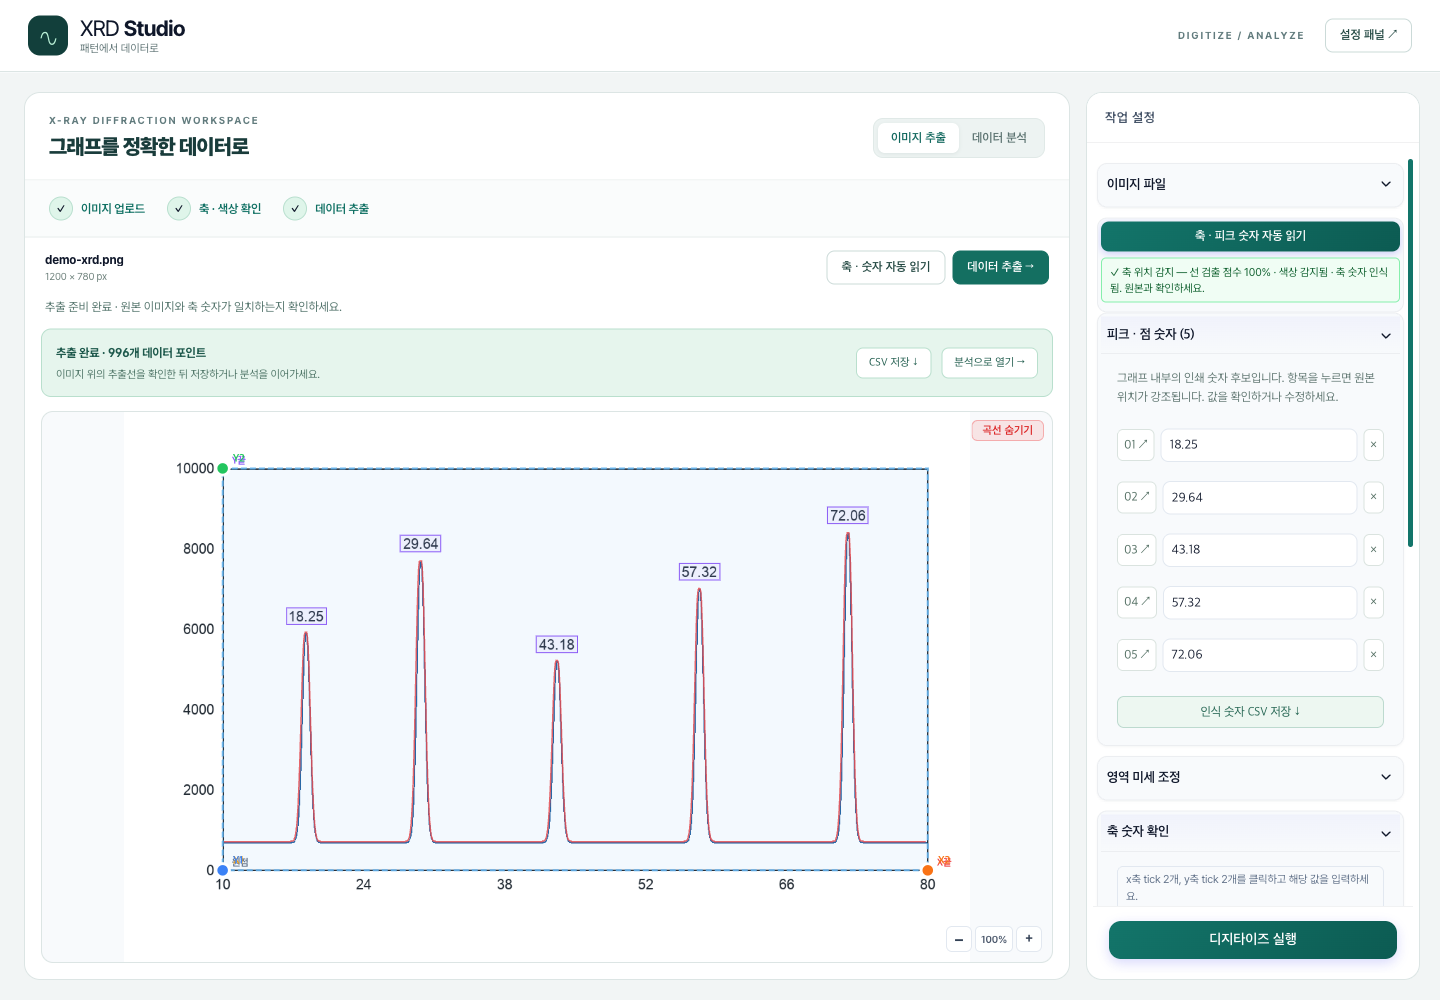
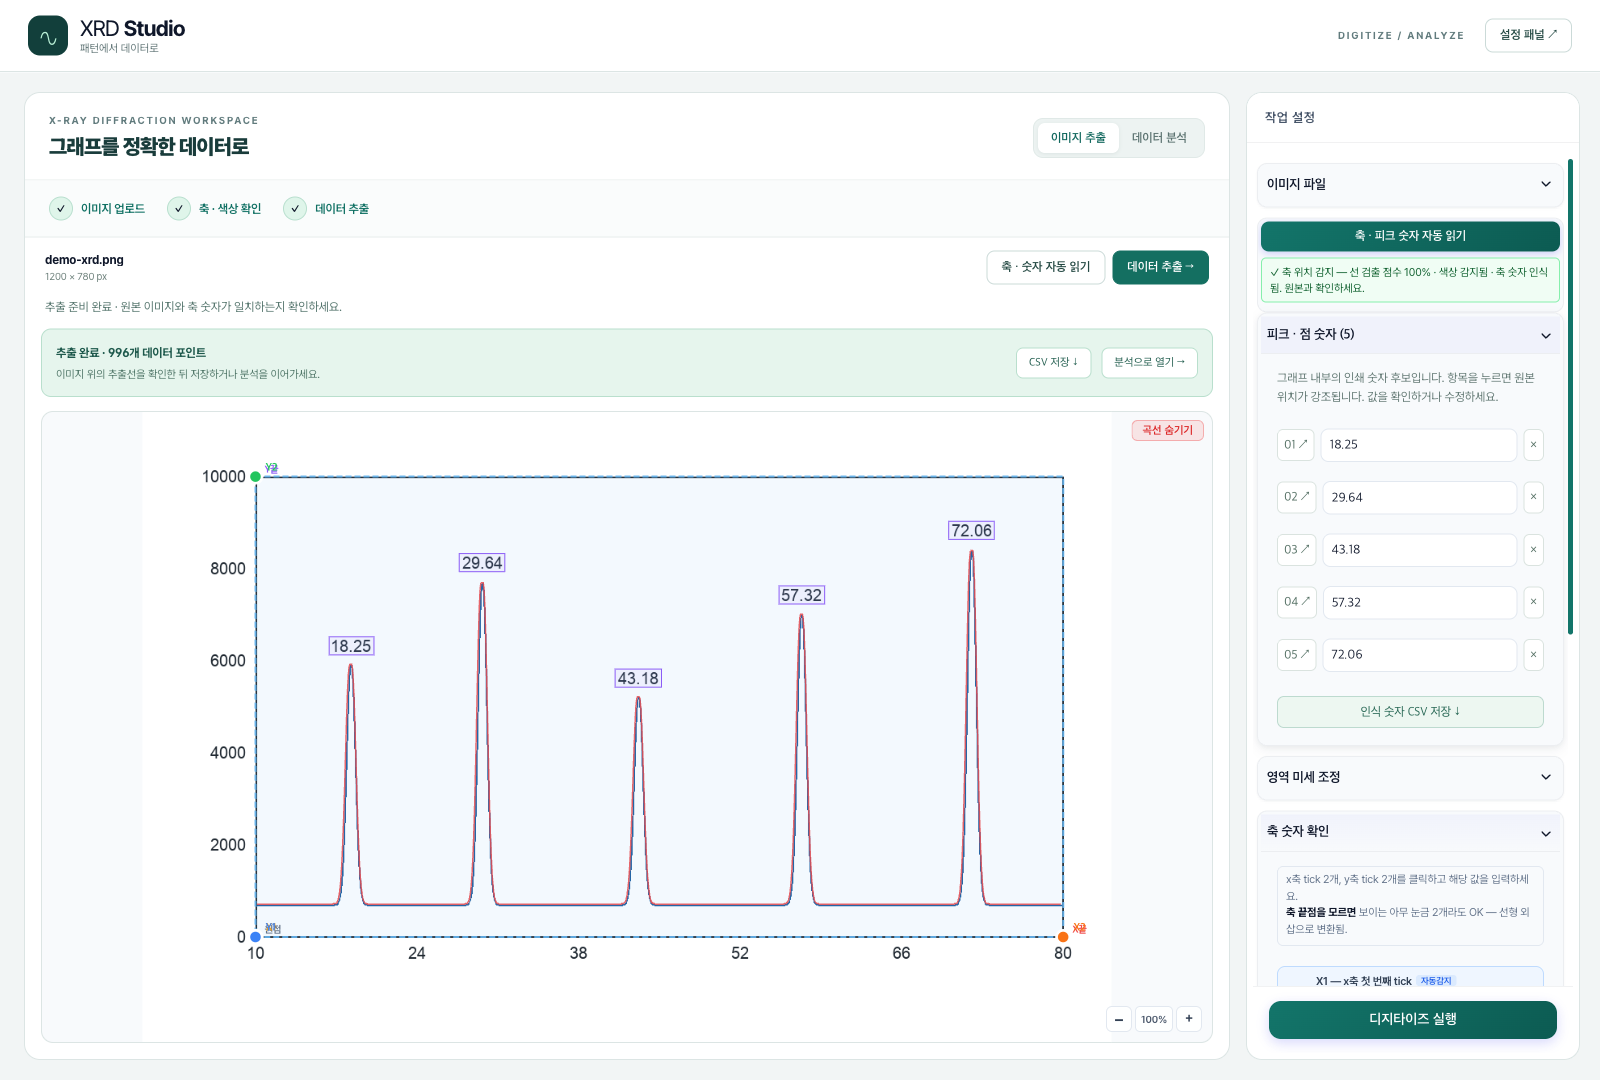
Refresh GitHub screenshots from the current XRD Studio app

diff --git a/README.md b/README.md
@@ -1,6 +1,6 @@
 <div align="center">
 
-![XRD Digitizer — From chart to data](docs/assets/hero.png)
+![XRD Studio — 실제 실행 화면: 축·피크 숫자 인식과 곡선 추출](docs/screenshots/studio.png)
 
 논문 속 **XRD 그래프를 수치 데이터로.** 이미지 업로드부터 피크 분석까지, 하나의 작업 공간에서.
 
@@ -15,8 +15,6 @@
 
 ## 새 작업 화면 · 축과 피크 숫자 자동 읽기
 
-![XRD Studio — 축과 인쇄 피크 숫자 검토](docs/screenshots/studio.png)
-
 | 자동 읽기 | 원본에서 확인 | 저장하고 분석 |
 |:---:|:---:|:---:|
 | 축 교점 · 눈금 값 · 피크 옆 인쇄 숫자 | 위치 강조 · 값 수정 · 곡선 겹쳐 보기 | 수치 CSV · 인쇄 숫자 CSV · 분석 연결 |
@@ -29,8 +27,10 @@
 
 | ① 그래프 → 수치 | ② 수치 → 분석 |
 |:---:|:---:|
-| ![Digitizer — 곡선 선택과 축 보정](docs/screenshots/digitizer.png) | ![Analyzer — 피크와 결정학 분석](docs/screenshots/analyzer.png) |
-| ROI·곡선 색상 선택 → 축 보정 → JSON 추출 | 피크 피팅 · 결정성 · Scherrer · Williamson–Hall |
+| ![Digitizer — 축·피크 숫자 자동 인식](docs/screenshots/digitizer.png) | ![Analyzer — 추출 데이터의 피크 분석 결과](docs/screenshots/analyzer.png) |
+| 축·피크 숫자 인식 → 원본 확인 → CSV 추출 | 피크 피팅 · 결정성 · Scherrer · Williamson–Hall |
+
+2026-09-09 현재 앱을 직접 캡처했습니다. 내장 합성 예제의 실행 결과입니다. [업로드 화면과 전체 캡처](docs/screenshots/README.md)
 
 ```mermaid
 flowchart LR

diff --git a/docs/screenshots/README.md b/docs/screenshots/README.md
@@ -1,13 +1,23 @@
-# Screenshots
+# XRD Studio 실제 화면
 
-웹앱 실제 화면 캡처를 이 폴더에 넣어주세요.
+2026-09-09 · 로컬 앱 `/xrd` · 브라우저 뷰포트 **1600 × 1080**, 확대 100%.
 
-추천 파일명 (top-level README가 이 이름으로 참조합니다):
+모든 이미지는 현재 실행 중인 앱을 직접 캡처한 PNG입니다. 내장 합성 예제를 사용했으며, 표의 분석 수치는 데모 결과입니다.
 
-- `digitizer.png` — 이미지 업로드 + 3점/4점 캘리브레이션 UI
-- `analyzer.png`  — 피크 표 / Williamson-Hall 플롯 / 결정성 결과
+## 이미지 업로드
 
-캡처 팁:
-- 브라우저 zoom 100%, 가로폭 1400px 이상
-- 결과가 보이는 화면 (디지타이즈 직후, 분석 후) 위주
-- macOS: `Cmd+Shift+4` → 영역 선택
+![예제 체험과 이미지 업로드](home.png)
+
+## 축·피크 숫자 자동 인식
+
+![영역과 인쇄 숫자를 인식한 디지타이저](digitizer.png)
+
+## 곡선 추출 완료
+
+![원본 위의 추출선과 피크 숫자 목록, CSV 저장](studio.png)
+
+## 데이터 분석
+
+![추출한 996개 데이터 포인트로 실행한 피크 분석](analyzer.png)
+
+캡처 재현: **예제로 체험하기 → 축 · 숫자 자동 읽기 → 데이터 추출 → 분석으로 열기 → 분석 실행 → 피크 분석**.

diff --git a/web/README.md b/web/README.md
@@ -121,7 +121,7 @@ XRD_DIGITIZER_PYTHON=/absolute/path/to/xrd_digitizer/.venv/bin/python3
 
 ## 📸 Screenshots
 
-현재 UI의 실제 화면 캡처입니다.
+2026-09-09 현재 앱에서 내장 예제를 읽고 분석한 실제 화면입니다. [업로드 화면과 전체 캡처](../docs/screenshots/README.md)
 
 | Digitizer | Analyzer |
 |:---:|:---:|
